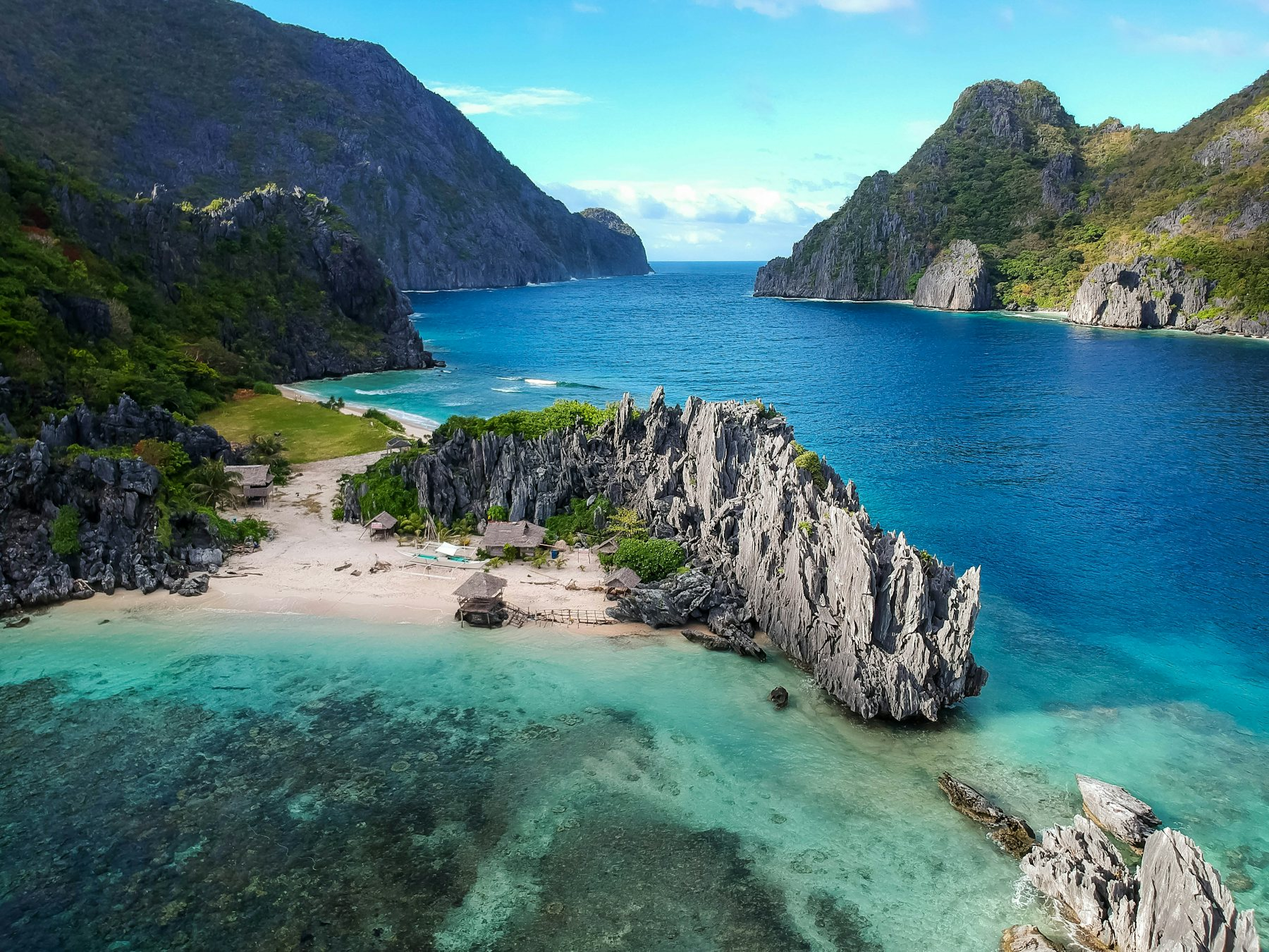
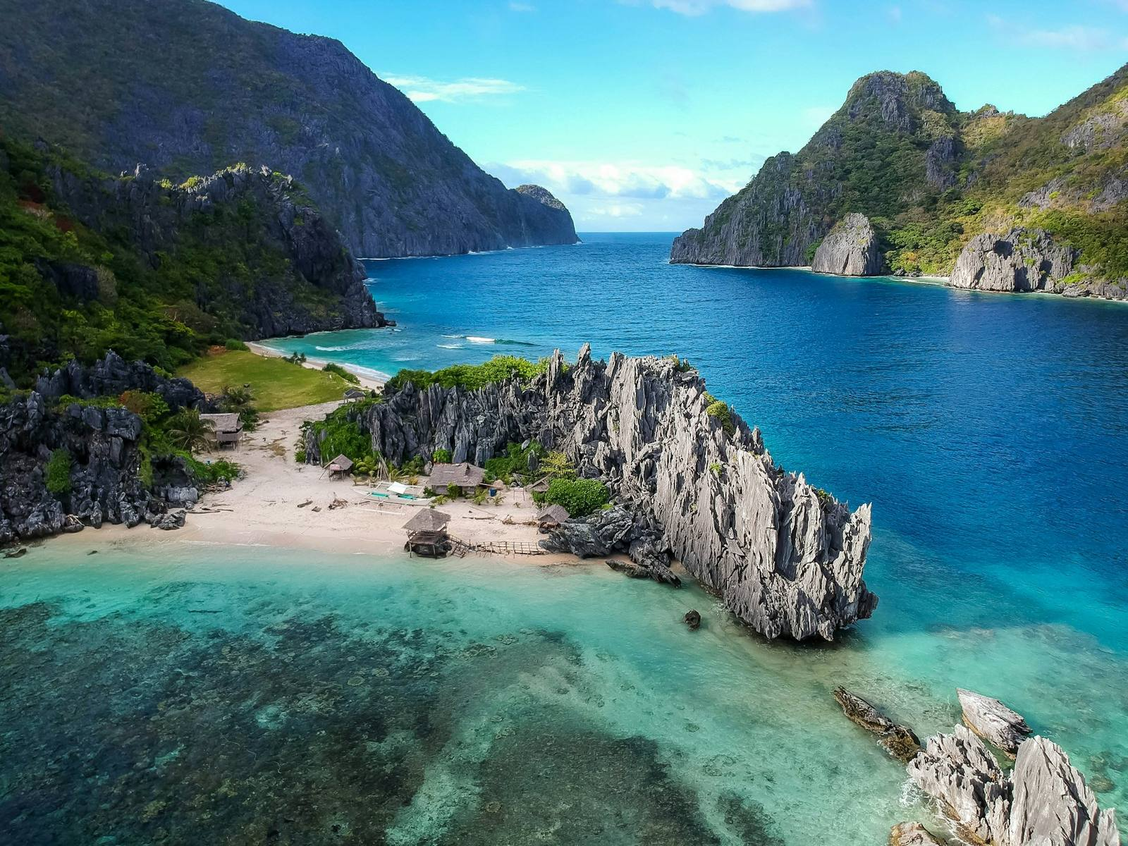
SEO: shorten 39 long page titles (drop brand suffix), trim 10 long meta descriptions at sentence end, compress homepage hero image 613KB->349KB
Claude-Session: https://claude.ai/code/session_01SSnaGsTbntwrSDPPLzGv8j

diff --git a/air-india-express/index.html b/air-india-express/index.html
@@ -3,8 +3,8 @@
 <head>
     <meta charset="UTF-8">
     <meta name="viewport" content="width=device-width, initial-scale=1.0">
-    <title>Air India Express routes — India via Kolkata | Cheap Ticket Finder</title>
-    <meta name="description" content="Air India Express is Air India’s low-cost airline. No Dhaka route was verified on 20 Oct 2026. A 2024 Dhaka announcement was not re-verified. The official city-to-city list shows Delhi, Bengaluru, Chennai and Hyderabad to Kolkata as operated. The final price is confirmed on the booking site.">
+    <title>Air India Express routes — India via Kolkata</title>
+    <meta name="description" content="Air India Express is Air India’s low-cost airline. No Dhaka route was verified on 20 Oct 2026. A 2024 Dhaka announcement was not re-verified.">
     <link rel="canonical" href="https://cheapticketfinder.site/air-india-express/">
     <meta name="robots" content="index, follow">
     <meta property="og:type" content="website">

diff --git a/spicejet/index.html b/spicejet/index.html
@@ -4,7 +4,7 @@
     <meta charset="UTF-8">
     <meta name="viewport" content="width=device-width, initial-scale=1.0">
     <title>SpiceJet routes — India domestic | Cheap Ticket Finder</title>
-    <meta name="description" content="SpiceJet is an Indian low-cost airline. It does not show a current Dhaka flight in its official schedule (checked 20 Oct 2026). A 2017 Kolkata–Dhaka press release is not a current flight. Verified India routes: Kolkata–Delhi, Kolkata–Mumbai, Kolkata–Bengaluru, Delhi–Mumbai, Delhi–Bengaluru and Mumbai–Goa. The final price is confirmed on the booking site.">
+    <meta name="description" content="SpiceJet is an Indian low-cost airline. It does not show a current Dhaka flight in its official schedule (checked 20 Oct 2026).">
     <link rel="canonical" href="https://cheapticketfinder.site/spicejet/">
     <meta name="robots" content="index, follow">
     <meta property="og:type" content="website">

diff --git a/thai-lion-air/index.html b/thai-lion-air/index.html
@@ -3,8 +3,8 @@
 <head>
     <meta charset="UTF-8">
     <meta name="viewport" content="width=device-width, initial-scale=1.0">
-    <title>Thai Lion Air routes — Bangkok Don Mueang onward | Cheap Ticket Finder</title>
-    <meta name="description" content="Thai Lion Air does not show a Dhaka route on its official route map (checked 20 Oct 2026). Verified Don Mueang routes: Chiang Mai, Phuket, Krabi and Hat Yai. The final price is confirmed on the booking site.">
+    <title>Thai Lion Air routes — Bangkok Don Mueang onward</title>
+    <meta name="description" content="Thai Lion Air does not show a Dhaka route on its official route map (checked 20 Oct 2026). Verified Don Mueang routes: Chiang Mai, Phuket, Krabi and Hat Yai.">
     <link rel="canonical" href="https://cheapticketfinder.site/thai-lion-air/">
     <meta name="robots" content="index, follow">
     <meta property="og:type" content="website">

diff --git a/how-to-find-cheap-air-tickets/index.html b/how-to-find-cheap-air-tickets/index.html
@@ -4,7 +4,7 @@
     <meta charset="UTF-8">
     <meta name="viewport" content="width=device-width, initial-scale=1.0">
     <title>How to Find Cheap Air Tickets from Bangladesh (2026 Guide)</title>
-    <meta name="description" content="How to find a cheap air ticket from Bangladesh: search flexible dates, compare the full price with baggage, check airline websites and book safely. Information only, no invented fares.">
+    <meta name="description" content="How to find a cheap air ticket from Bangladesh: search flexible dates, compare the full price with baggage, check airline websites and book safely.">
     <meta name="robots" content="index, follow, max-snippet:-1, max-image-preview:large">
     <link rel="canonical" href="https://cheapticketfinder.site/how-to-find-cheap-air-tickets/">
     <link rel="alternate" hreflang="en" href="https://cheapticketfinder.site/how-to-find-cheap-air-tickets/">

diff --git a/vietjet/index.html b/vietjet/index.html
@@ -3,8 +3,8 @@
 <head>
     <meta charset="UTF-8">
     <meta name="viewport" content="width=device-width, initial-scale=1.0">
-    <title>VietJet routes — Thailand, Vietnam, Cambodia, Malaysia | Cheap Ticket Finder</title>
-    <meta name="description" content="Find verified VietJet and Thai VietJet routes in Thailand, Vietnam, Cambodia and Malaysia. VietJet does not fly to or from Dhaka. Compare prices from partner sites in the on-site flight search.">
+    <title>VietJet routes — Thailand, Vietnam, Cambodia, Malaysia</title>
+    <meta name="description" content="Find verified VietJet and Thai VietJet routes in Thailand, Vietnam, Cambodia and Malaysia. VietJet does not fly to or from Dhaka.">
     <link rel="canonical" href="https://cheapticketfinder.site/vietjet/">
     <meta name="robots" content="index, follow">
     <meta property="og:type" content="website">

diff --git a/about/index.html b/about/index.html
@@ -3,8 +3,8 @@
 <head>
     <meta charset="UTF-8">
     <meta name="viewport" content="width=device-width, initial-scale=1.0">
-    <title>About Cheap Ticket Finder — Cheap Ticket Search for Bangladesh Travellers</title>
-    <meta name="description" content="About Cheap Ticket Finder: a Bangladesh-focused helper to find lower-cost flight tickets with flexible dates in the on-site flight search. We do not sell tickets or invent fares.">
+    <title>About Cheap Ticket Finder — Ticket Search for Bangladesh</title>
+    <meta name="description" content="About Cheap Ticket Finder: a Bangladesh-focused helper to find lower-cost flight tickets with flexible dates in the on-site flight search.">
     <link rel="canonical" href="https://cheapticketfinder.site/about">
     <meta name="robots" content="index, follow">
     <meta property="og:type" content="website">

diff --git a/offers/index.html b/offers/index.html
@@ -3,8 +3,8 @@
 <head>
     <meta charset="UTF-8">
     <meta name="viewport" content="width=device-width, initial-scale=1.0">
-    <title>Airline offers — Domestic and International | Cheap Ticket Finder</title>
-    <meta name="description" content="Airline offers checked on official sites on 20 Oct 2026: domestic Bangladesh and international, with a VietJet regional note. Offers change. The final price is on the airline site.">
+    <title>Airline offers — Domestic and International</title>
+    <meta name="description" content="Airline offers checked on official sites on 20 Oct 2026: domestic Bangladesh and international, with a VietJet regional note. Offers change.">
     <link rel="canonical" href="https://cheapticketfinder.site/offers/">
     <meta name="robots" content="index, follow">
     <meta property="og:type" content="website">

diff --git a/indigo/index.html b/indigo/index.html
@@ -4,7 +4,7 @@
     <meta charset="UTF-8">
     <meta name="viewport" content="width=device-width, initial-scale=1.0">
     <title>IndiGo routes — Dhaka, Kolkata, Delhi | Cheap Ticket Finder</title>
-    <meta name="description" content="Verified IndiGo routes checked 20 Oct 2026: Dhaka–Kolkata and Dhaka–Delhi direct, onward India routes from Kolkata, and Hyderabad–Dhaka as connecting only. The final price is confirmed on the booking site.">
+    <meta name="description" content="Verified IndiGo routes checked 20 Oct 2026: Dhaka–Kolkata and Dhaka–Delhi direct, onward India routes from Kolkata, and Hyderabad–Dhaka as connecting only.">
     <link rel="canonical" href="https://cheapticketfinder.site/indigo/">
     <meta name="robots" content="index, follow">
     <meta property="og:type" content="website">

diff --git a/scoot/index.html b/scoot/index.html
@@ -4,7 +4,7 @@
     <meta charset="UTF-8">
     <meta name="viewport" content="width=device-width, initial-scale=1.0">
     <title>Scoot routes — Singapore onward | Cheap Ticket Finder</title>
-    <meta name="description" content="Scoot is the low-cost airline of the Singapore Airlines Group. No Dhaka or Kolkata route was verified on 20 Oct 2026. Verified routes: Singapore–Bangkok and Singapore–Chennai. The final price is confirmed on the booking site.">
+    <meta name="description" content="Scoot is the low-cost airline of the Singapore Airlines Group. No Dhaka or Kolkata route was verified on 20 Oct 2026.">
     <link rel="canonical" href="https://cheapticketfinder.site/scoot/">
     <meta name="robots" content="index, follow">
     <meta property="og:type" content="website">

diff --git a/bangkok-to-chiang-mai-cheap-flight/index.html b/bangkok-to-chiang-mai-cheap-flight/index.html
@@ -3,7 +3,7 @@
 <head>
     <meta charset="UTF-8">
     <meta name="viewport" content="width=device-width, initial-scale=1.0">
-    <title>Bangkok to Chiang Mai Cheap Flight — BKK & DMK to CNX Guide | Cheap Ticket Finder</title>
+    <title>Bangkok to Chiang Mai Cheap Flight — BKK & DMK to CNX Guide</title>
     <meta name="description" content="Bangkok to Chiang Mai (BKK/DMK–CNX) cheap flight guide with Thai AirAsia, Thai VietJet, Thai Lion Air and Nok Air for Bangladesh travellers: compare in the on-site flight search, buy in THB on official airline sites, BKK vs DMK and baggage checks. No live fare published.">
     <meta name="robots" content="index, follow">
     <link rel="canonical" href="https://cheapticketfinder.site/bangkok-to-chiang-mai-cheap-flight/">

diff --git a/ho-chi-minh-to-da-nang-cheap-flight/index.html b/ho-chi-minh-to-da-nang-cheap-flight/index.html
@@ -3,7 +3,7 @@
 <head>
     <meta charset="UTF-8">
     <meta name="viewport" content="width=device-width, initial-scale=1.0">
-    <title>Ho Chi Minh City to Da Nang Cheap Flight — SGN to DAD Guide | Cheap Ticket Finder</title>
+    <title>Ho Chi Minh City to Da Nang Cheap Flight — SGN to DAD Guide</title>
     <meta name="description" content="Ho Chi Minh City to Da Nang (SGN–DAD) cheap flight guide with VietJet, Vietnam Airlines and Bamboo Airways for Bangladesh travellers: compare in the on-site flight search, buy in VND on official airline sites, baggage and separate-ticket checks. No live fare published.">
     <meta name="robots" content="index, follow">
     <link rel="canonical" href="https://cheapticketfinder.site/ho-chi-minh-to-da-nang-cheap-flight/">

diff --git a/kuala-lumpur-to-langkawi-cheap-flight/index.html b/kuala-lumpur-to-langkawi-cheap-flight/index.html
@@ -3,7 +3,7 @@
 <head>
     <meta charset="UTF-8">
     <meta name="viewport" content="width=device-width, initial-scale=1.0">
-    <title>Kuala Lumpur to Langkawi Cheap Flight — KUL to LGK Guide | Cheap Ticket Finder</title>
+    <title>Kuala Lumpur to Langkawi Cheap Flight — KUL to LGK Guide</title>
     <meta name="description" content="Kuala Lumpur to Langkawi (KUL–LGK) cheap flight guide with AirAsia, Malaysia Airlines and Batik Air Malaysia for Bangladesh travellers: compare in the on-site flight search, buy in MYR on official airline sites, KUL vs SZB and baggage checks. No live fare published.">
     <meta name="robots" content="index, follow">
     <link rel="canonical" href="https://cheapticketfinder.site/kuala-lumpur-to-langkawi-cheap-flight/">
